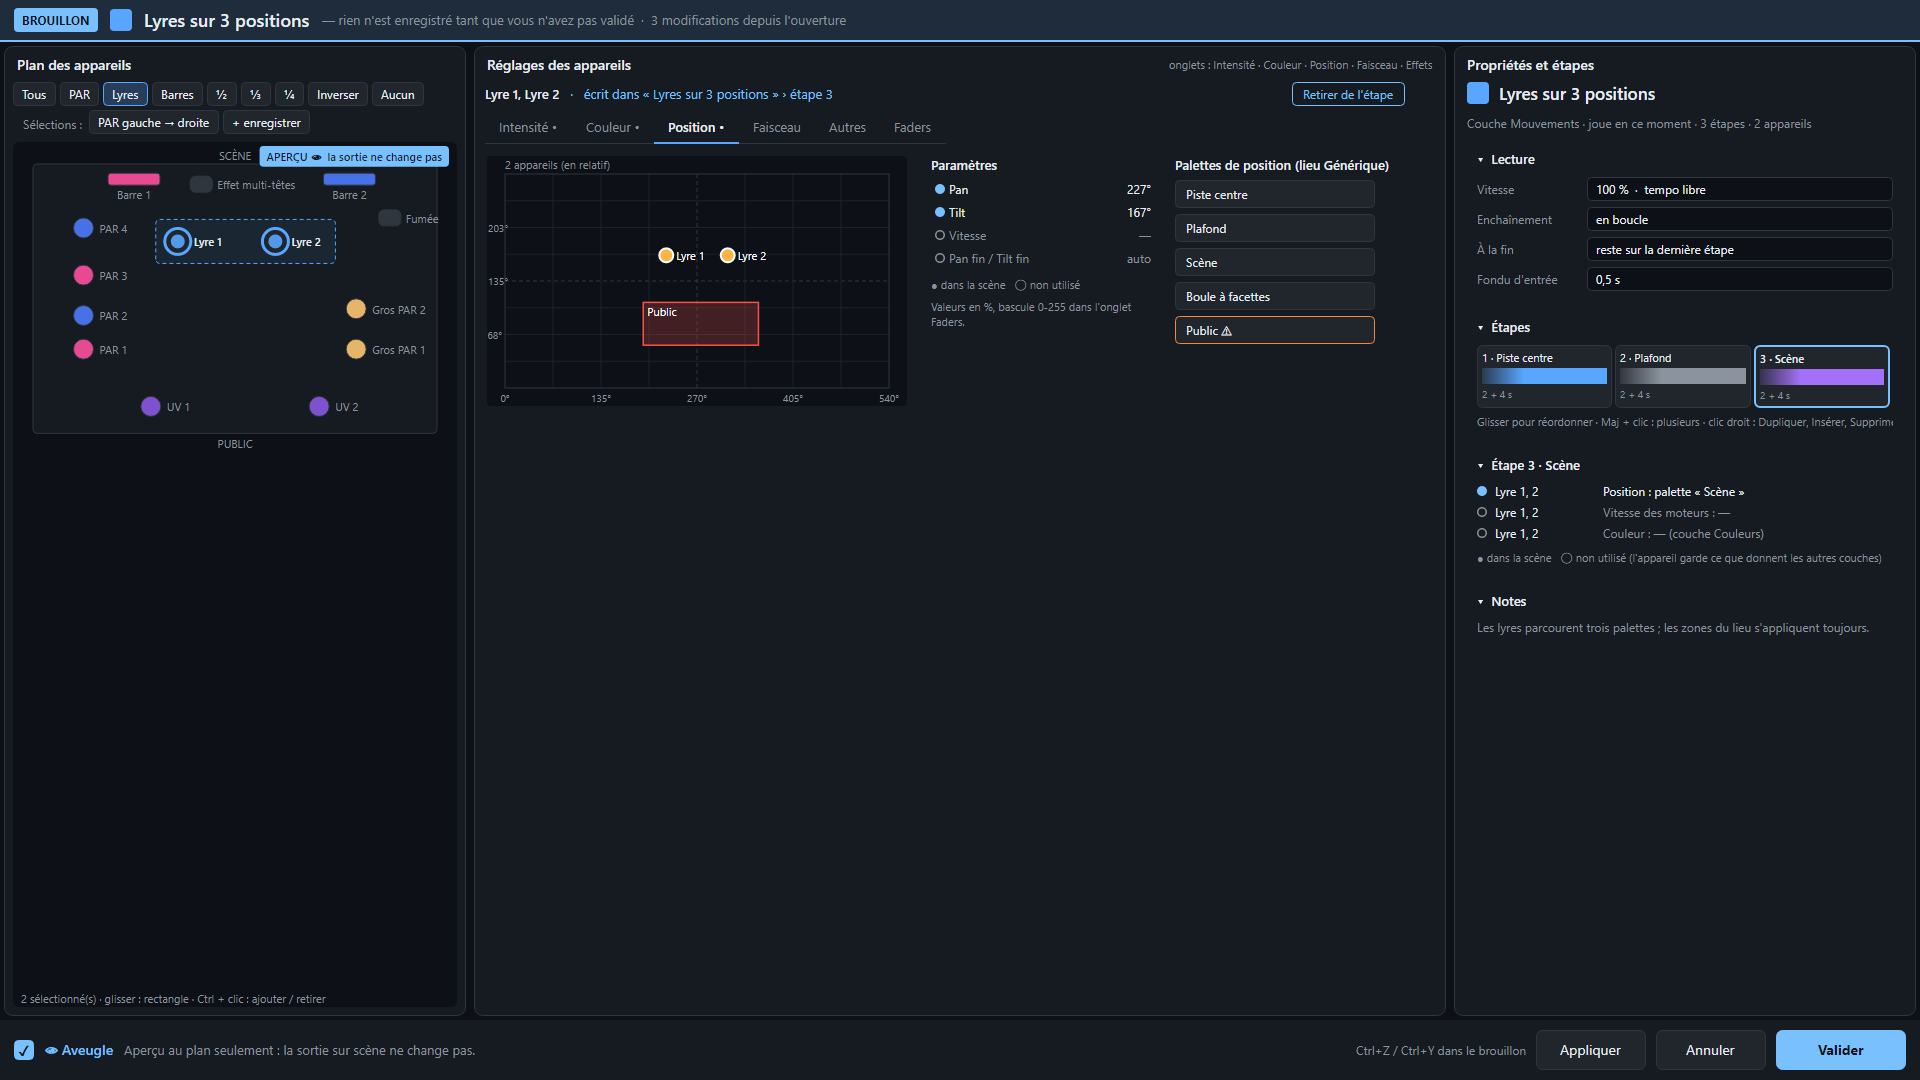
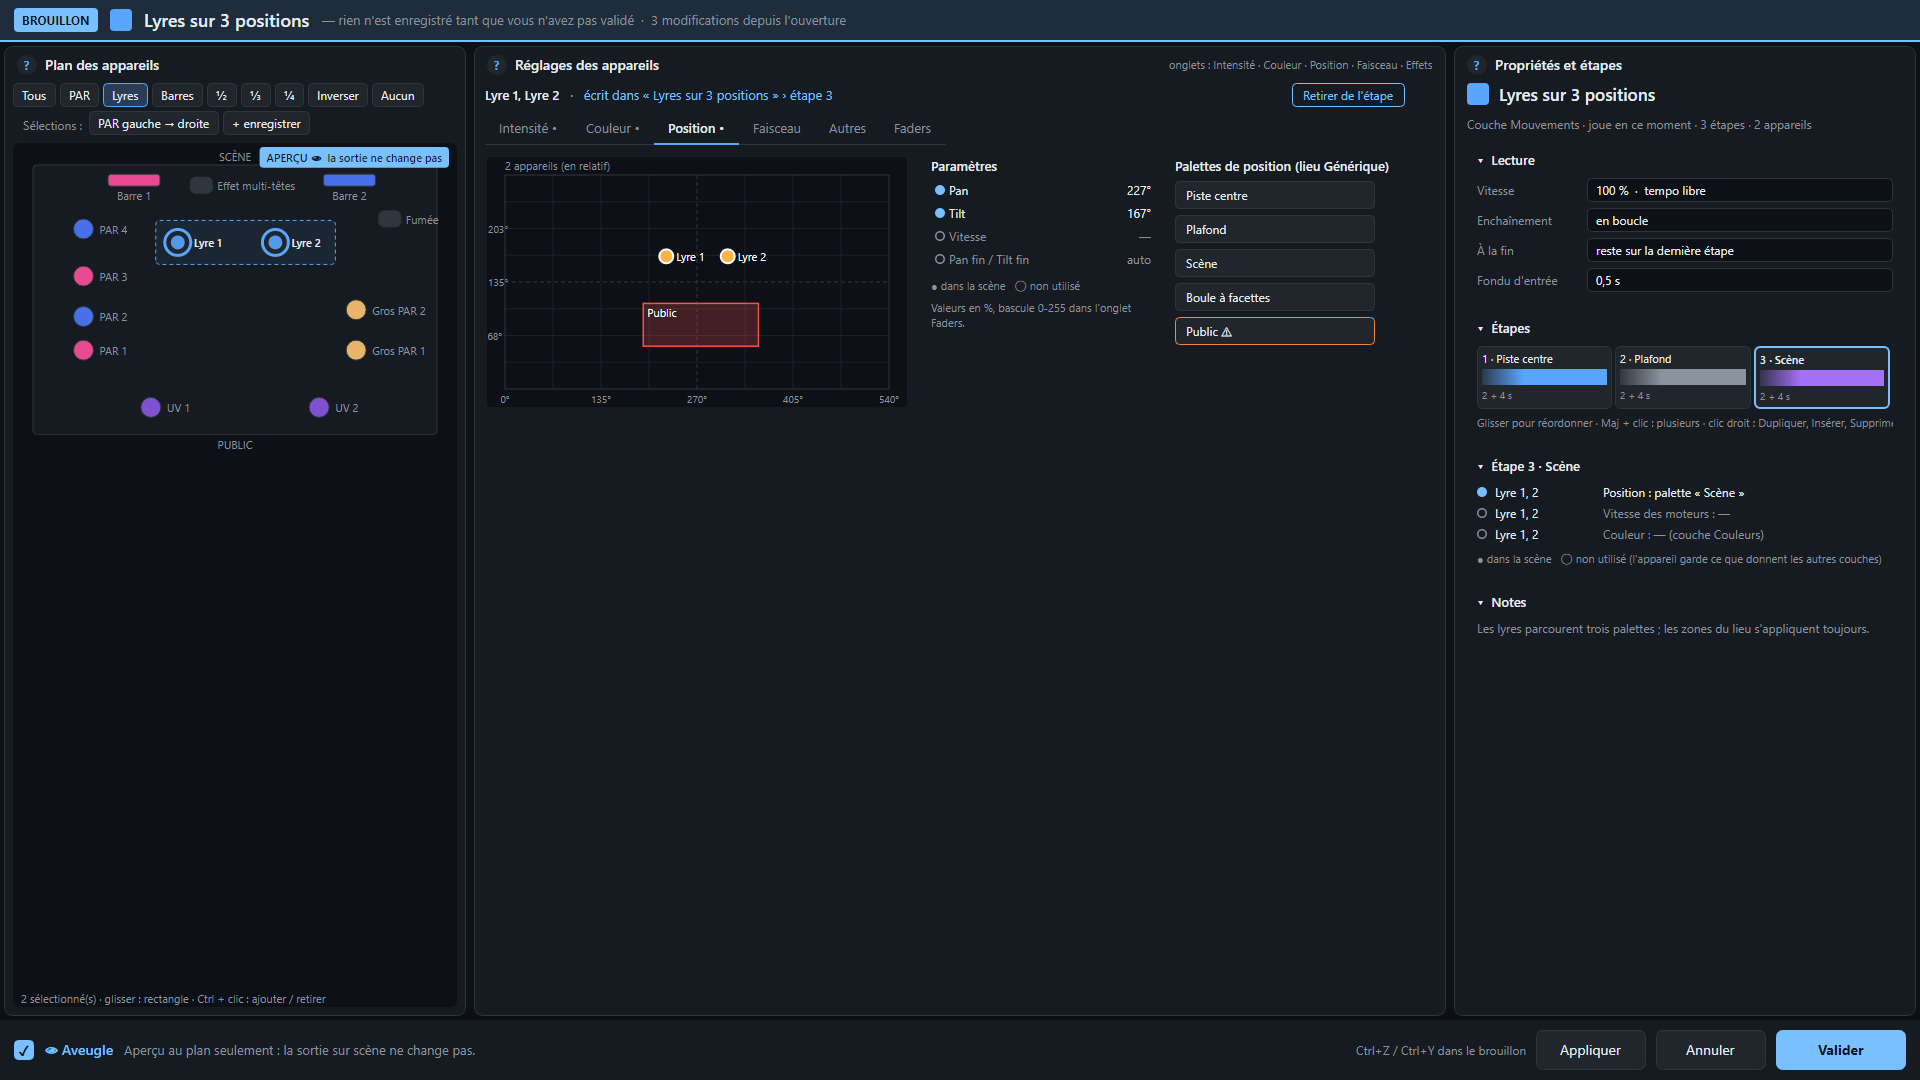
docs(contrôle 2): maquettes — « niveau actuel » en lecture seule, aide « ? » des panneaux

diff --git a/tools/Luxia.Tools.Prototype/Mockups/Controle2Mockups.cs b/tools/Luxia.Tools.Prototype/Mockups/Controle2Mockups.cs
@@ -77,6 +77,10 @@ internal static class Controle2Mockups
                 head.Children.Add(h);
             }
 
+            var help = new Border { Width = 20, Height = 20, CornerRadius = new CornerRadius(10), Background = Tokens.Brush(Tokens.Raised), Margin = new Thickness(0, 0, 8, 0), Child = T("?", 12, Tokens.Accent, FontWeight.Bold).WithCenter() };
+            ToolTip.SetTip(help, "Aide : ce que c'est, à quoi ça sert, un exemple.");
+            DockPanel.SetDock(help, Avalonia.Controls.Dock.Left);
+            head.Children.Add(help);
             head.Children.Add(T(title, 14, Tokens.Text, FontWeight.SemiBold));
             DockPanel.SetDock(head, Avalonia.Controls.Dock.Top);
             stack.Children.Add(head);
@@ -625,7 +629,7 @@ internal static class Controle2Mockups
         if (g.Level is { } level)
         {
             var badge = new StackPanel { Orientation = Orientation.Horizontal, Spacing = 6, VerticalAlignment = VerticalAlignment.Center, Margin = new Thickness(0, 0, 10, 0) };
-            badge.Children.Add(T("dimmer", 11, Tokens.Secondary));
+            badge.Children.Add(T("niveau actuel", 11, Tokens.Secondary));
             badge.Children.Add(Bar(level, Tokens.Accent, 70, 10));
             badge.Children.Add(T($"{level} %", 12, Tokens.Text, FontWeight.SemiBold));
             badge.Children.Add(new Border { Background = Tokens.Brush(Tokens.Raised), CornerRadius = new CornerRadius(8), Padding = new Thickness(6, 0), Child = T($"② {g.Fader}", 10, Tokens.Secondary) });
@@ -706,7 +710,7 @@ internal static class Controle2Mockups
                 Spacing = 6,
                 Children =
                 {
-                    T("Flux d'intensité jusqu'aux PAR 1 à 4", 13, Tokens.Text, FontWeight.SemiBold),
+                    T("Flux d'intensité jusqu'aux PAR 1 à 4 — exemple avec les niveaux actuels (lecture seule)", 13, Tokens.Text, FontWeight.SemiBold),
                     new WrapPanel
                     {
                         Children =
